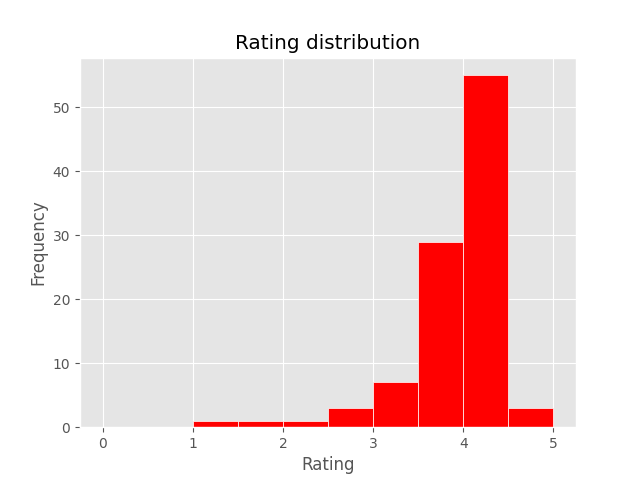
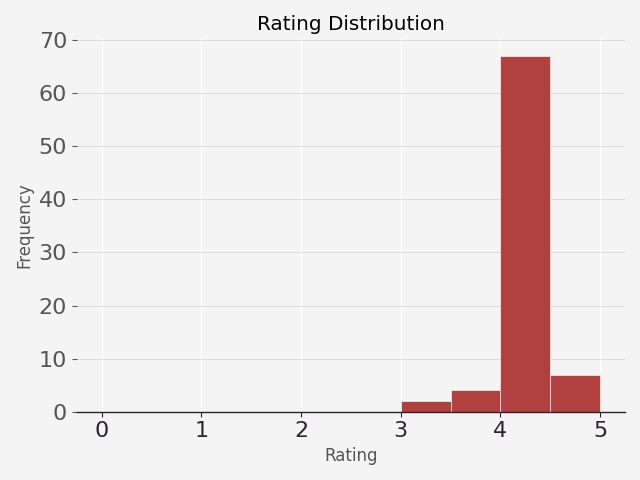
styling changes to plots and about content

diff --git a/templates/search.html b/templates/search.html
@@ -75,8 +75,20 @@
 
           {% if results|length > 0 %}
           <div class="metadata-view">
-            <img src="{{ url_for('static', filename='/plots/ranking.png') }}" alt="there should be a plot here :(">
-            <img src="{{ url_for('static', filename='/plots/genres_pie.png') }}" alt="there should be a plot here :(">
+            <div class="ratings-plot">
+              <!-- <h3>Results Rating Distribution</h3>  -->
+              <img src="{{ url_for('static', filename='/plots/ranking.png') }}" alt="there should be a plot here :(">
+            </div>
+            <div class="genres-plot">
+              <!-- <h3>Genre Distribution</h3>      -->
+              <img src="{{ url_for('static', filename='/plots/genres_pie.png') }}" alt="there should be a plot here :(">
+              <!-- <div class="genres-list"> -->
+              <!--   {% for g in genres %} -->
+              <!--   <a class="genre{% if g in request.args.get('genre', "") %}-hilit{% endif %}" -->
+              <!--      href="{{ url_for('results') }}?genre={{ g|urlencode }}{% if query %}&query={{ query|urlencode }}{% endif %}{% if request.args.get('literal') %}&literal=literal{% endif %}">{{ g }}</a> -->
+              <!--   {% endfor %} -->
+              <!-- </div> -->
+            </div>
           </div>
           {% else %}
           <div class="metadata-view">

diff --git a/templates/about.html b/templates/about.html
@@ -29,7 +29,18 @@
     </div>
     
     <div class="body-container">
-        <p> some about content </p>
+        <h2>Thanks for trying out V.A.G.U.E.!</h2>
+        <p>This project was developed as part of the <b class="accent">Building NLP Applications</b> course at the University of Helsinki.</p>
+        <p>The goal was to understand and apply NLP and information retrieval strategies such as Boolean search, TF-IDF, and neural search, by implementing a simple search engine.</p>
+        <p>We also used data visualization and user experience (UX) design techniques to make the website more accessible and engaging.</p>
+        <p>The project was implemented in Python and relies on libraries such as Pandas, NumPy, Flask, Matplotlib, sqlite3, Sentence Transformers, and scikit-learn.</p>
+        <h4>Team Members:</h4>
+        <ul>
+          <li>Ina Goettling</li>
+          <li>Ivan Montejo de Garcini</li>
+          <li>Lisa Lemardelé</li>
+          <li>Suchanya Limpakom</li>
+        </ul>
     </div>
 
     <footer>

diff --git a/static/styles/styles.css b/static/styles/styles.css
@@ -26,7 +26,7 @@ html {
     --color-accent-b: #b4c4d0;
 
     --color-accent-dr: #7d2e2c;
-    --color-accent-db:#8ca4b7;
+    --color-accent-db: #8ca4b7;
 
     --color-accent-lr: hsl(2, 68%, 87%);
 
@@ -277,6 +277,17 @@ header {
 .metadata-view img {
     max-width: 85%;
     justify-content: center;
+}
+.ratings-plot h3, .genres-plot h3 {
+    font-size: 0.8em;
+    margin-block-start: 0.5em;
+    margin-block-end: 0.5em;
+}
+.ratings-plot, .genres-plot {
+    display: flex;
+    flex-direction: column;
+    justify-content: center;
+    align-items: center;
 }
 
 .help {

diff --git a/src/database.py b/src/database.py
@@ -35,13 +35,45 @@ def plot_ratings(ids: list, output_file=path / ".." / "static" / "plots" / "rank
         ids (list): list containing the games' ids
         output_file (_type_, optional): Path to the file where the plot image will be saved. Defaults to ./../static/plots/ranking.png
     """
+    # Styling Variables
+    FONT_SIZE = 16
+    plt.rcParams["xtick.labelsize"] = FONT_SIZE
+    plt.rcParams["ytick.labelsize"] = FONT_SIZE
+
+    # Accent colors to match site
+    COLOR_BLACK = "#2d232e"
+    COLOR_RED = "#b0413e"
+    COLOR_WHITE = "#f4f4f4"
+    COLOR_GREY = "#ccc"
+
     data = pd.read_sql(get_all_gamedata(ids=ids, as_text=True), get_db())["rating"]
-    plt.figure()
-    plt.hist(data, bins=np.linspace(0, 5, 11),color="red",edgecolor="white")
-    plt.xticks(range(6))
+
+    fig, ax = plt.subplots()
+    fig.patch.set_facecolor(COLOR_WHITE)
+    ax.set_facecolor(COLOR_WHITE)
+
+    ax.hist(data, bins=np.linspace(0, 5, 11), color=COLOR_RED, edgecolor=COLOR_WHITE)
+    ax.set_xticks(range(6))
+    
+    # Hide all but bottom spine
+    ax.spines["right"].set_visible(False)
+    ax.spines["left"].set_visible(False)
+    ax.spines["top"].set_visible(False)
+    
+    ax.spines["bottom"].set_color(COLOR_BLACK)
+    ax.tick_params(axis="x", colors=COLOR_BLACK)
+
+    ax.yaxis.set_ticks_position("left")
+    ax.xaxis.set_ticks_position("bottom")
+    
+    ax.set_axisbelow(True)
+    ax.grid(axis="y", color=COLOR_GREY, alpha=0.6, linewidth=0.7)
+
+    plt.title("Rating Distribution")
     plt.xlabel("Rating")
     plt.ylabel("Frequency")
-    plt.title("Rating distribution")
+    
+    plt.tight_layout()
     plt.savefig(output_file)
     plt.close()
 
@@ -53,12 +85,18 @@ def plot_genre_pie(ids: list, output_file=path / ".." / "static" / "plots" / "ge
         output_file (_type_, optional): Path to the file where the plot image will be saved. Defaults to ./../static/plots/ranking.png
         top_n (int): Only the top n will be displayed, the others will be displayed as "Other". Defaults to 7.
     """
+    # Colors to match site palette
+    COLOR_SCHEME = ["#be6663", "#bccdda", "#f7ffe9", "#c9dad4", "#edc2b2"]
+    
     data = pd.read_sql(get_genres(ids=ids, as_text=True), get_db())
     counts = pd.Series(data["count"].iloc[:top_n].tolist(), index=data["genres"][:top_n])
     counts["Other"] = sum(data["count"][top_n:])
     del data
-    cmap = plt.cm.hsv
-    colors = cmap(np.linspace(0, 1, 5))
+    # cmap = plt.cm.hsv
+    # colors = cmap(np.linspace(0, 1, 5))
+    
+    colors = [COLOR_SCHEME[i % len(COLOR_SCHEME)] for i in range(len(counts)-1)] + ["#ccc"] # The site palette is not suited to pie charts :(
+
     plt.figure()
     plt.pie(
         counts,
@@ -66,11 +104,12 @@ def plot_genre_pie(ids: list, output_file=path / ".." / "static" / "plots" / "ge
         autopct="%1.1f%%",
         startangle=90,
         counterclock=False,
-        wedgeprops={"edgecolor": "black"},
+        wedgeprops={"edgecolor": "#2d232e"},
         colors=colors
     )
-    plt.title("Genre distribution")
+    plt.title("Genre Distribution")
     plt.axis("equal")
+
     plt.savefig(output_file)
     plt.close()
 

diff --git a/app.py b/app.py
@@ -91,24 +91,6 @@ def results():
     query_mode = request.args.get("literal", "0") == "literal"
     # print(query_mode)
 
-    
-    # df_results = engine.show_results(engine.smart_search_router(query, query_mode))  # db version
-
-    # if df_results is None or df_results.empty:
-    #     return render_template(
-    #         "search.html",
-    #         query=query,
-    #         results={}
-    #     )
-
-    # # TODO: change this, I am going to do something very ugly and inefficient
-    # results = []
-    # for i in df_results.index:
-    #     # print(i)
-    #     results.append(df_results.loc[i].to_dict())
-    #     results[-1]["id"] = i
-    # # pprint(results[0])
-
     results = query_backend(query, query_mode)
     genre = (request.args.get("genre") or "").strip()
     
@@ -125,16 +107,25 @@ def results():
             query=query,
             results={}
         )
-    
+
+    # NOTE This creates a list for displaying all genres in the sidebar along with the plots. It functions exactly like the clikcable genres in the game cards, so it's not really necessary. I'm leaving it out for now.
+    # all_genres = []
+    # for result in results:
+    #     genres_str = result.get("genres") or ""
+    #     genres_list = [g.strip() for g in genres_str.split(",") if g.strip()]
+    #     all_genres.extend(genres_list)
+    #     found_genres = sorted(set(all_genres))
+        
     ids = [r["id"] for r in results]
 
     plot_ratings(ids)
-    plot_genre_pie(ids)
+    plot_genre_pie(ids, top_n=5)
     
     return render_template(
         "search.html",
         query=query,
         results=results
+        # genres=found_genres
     )    
     
 @app.route("/game/<int:game_id>")
@@ -147,7 +138,7 @@ def game_details(game_id):
     game = df_game.iloc[0].to_dict()
     game["id"] = game_id
 
-    # still using a shortened description, but I made a very basic preprocessing function to maybe fit more content into the query
+    # NOTE still using a shortened description, but I made a very basic preprocessing function to maybe fit more content into the query
     # this comes before markdown so the text doesn't have the html formatting
     short_desc = quick_preprocess(game["desc"][:2000])
     
